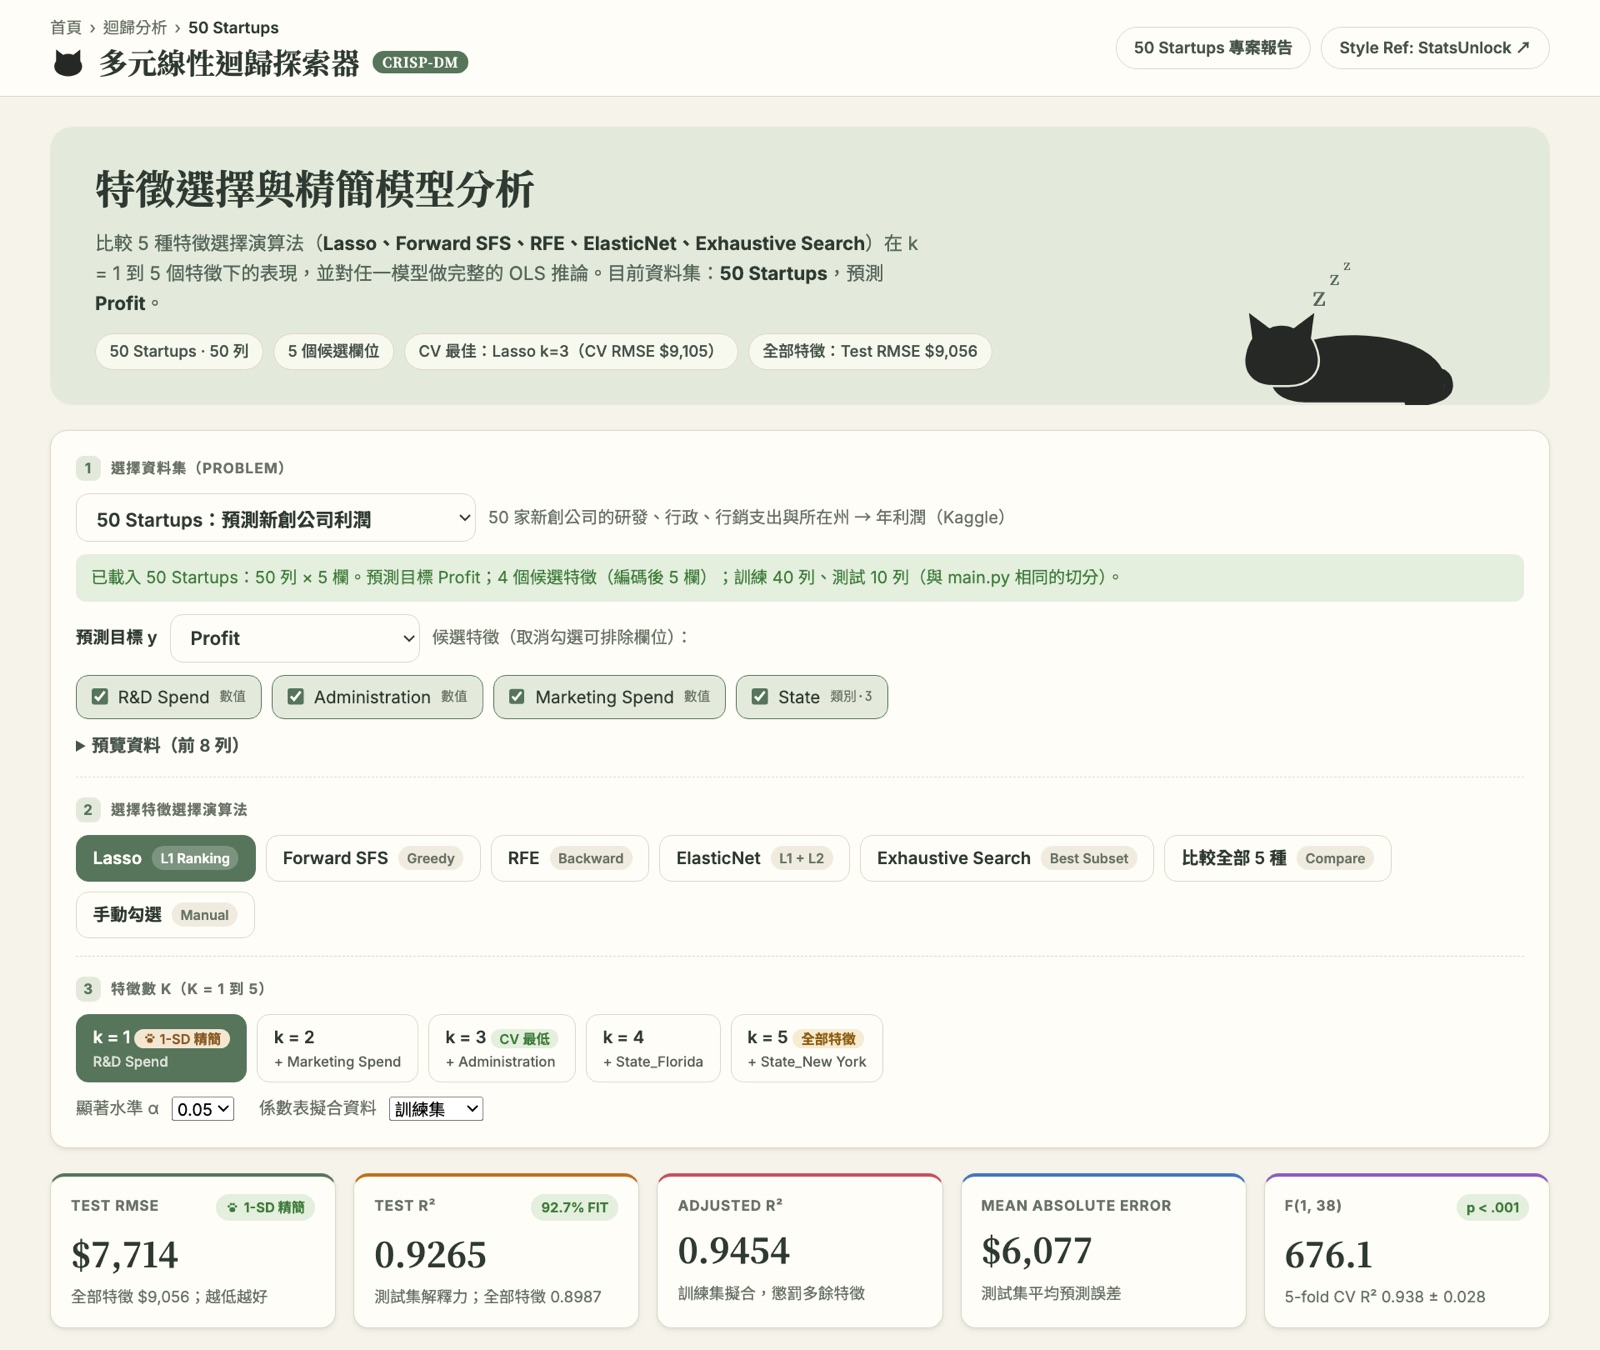
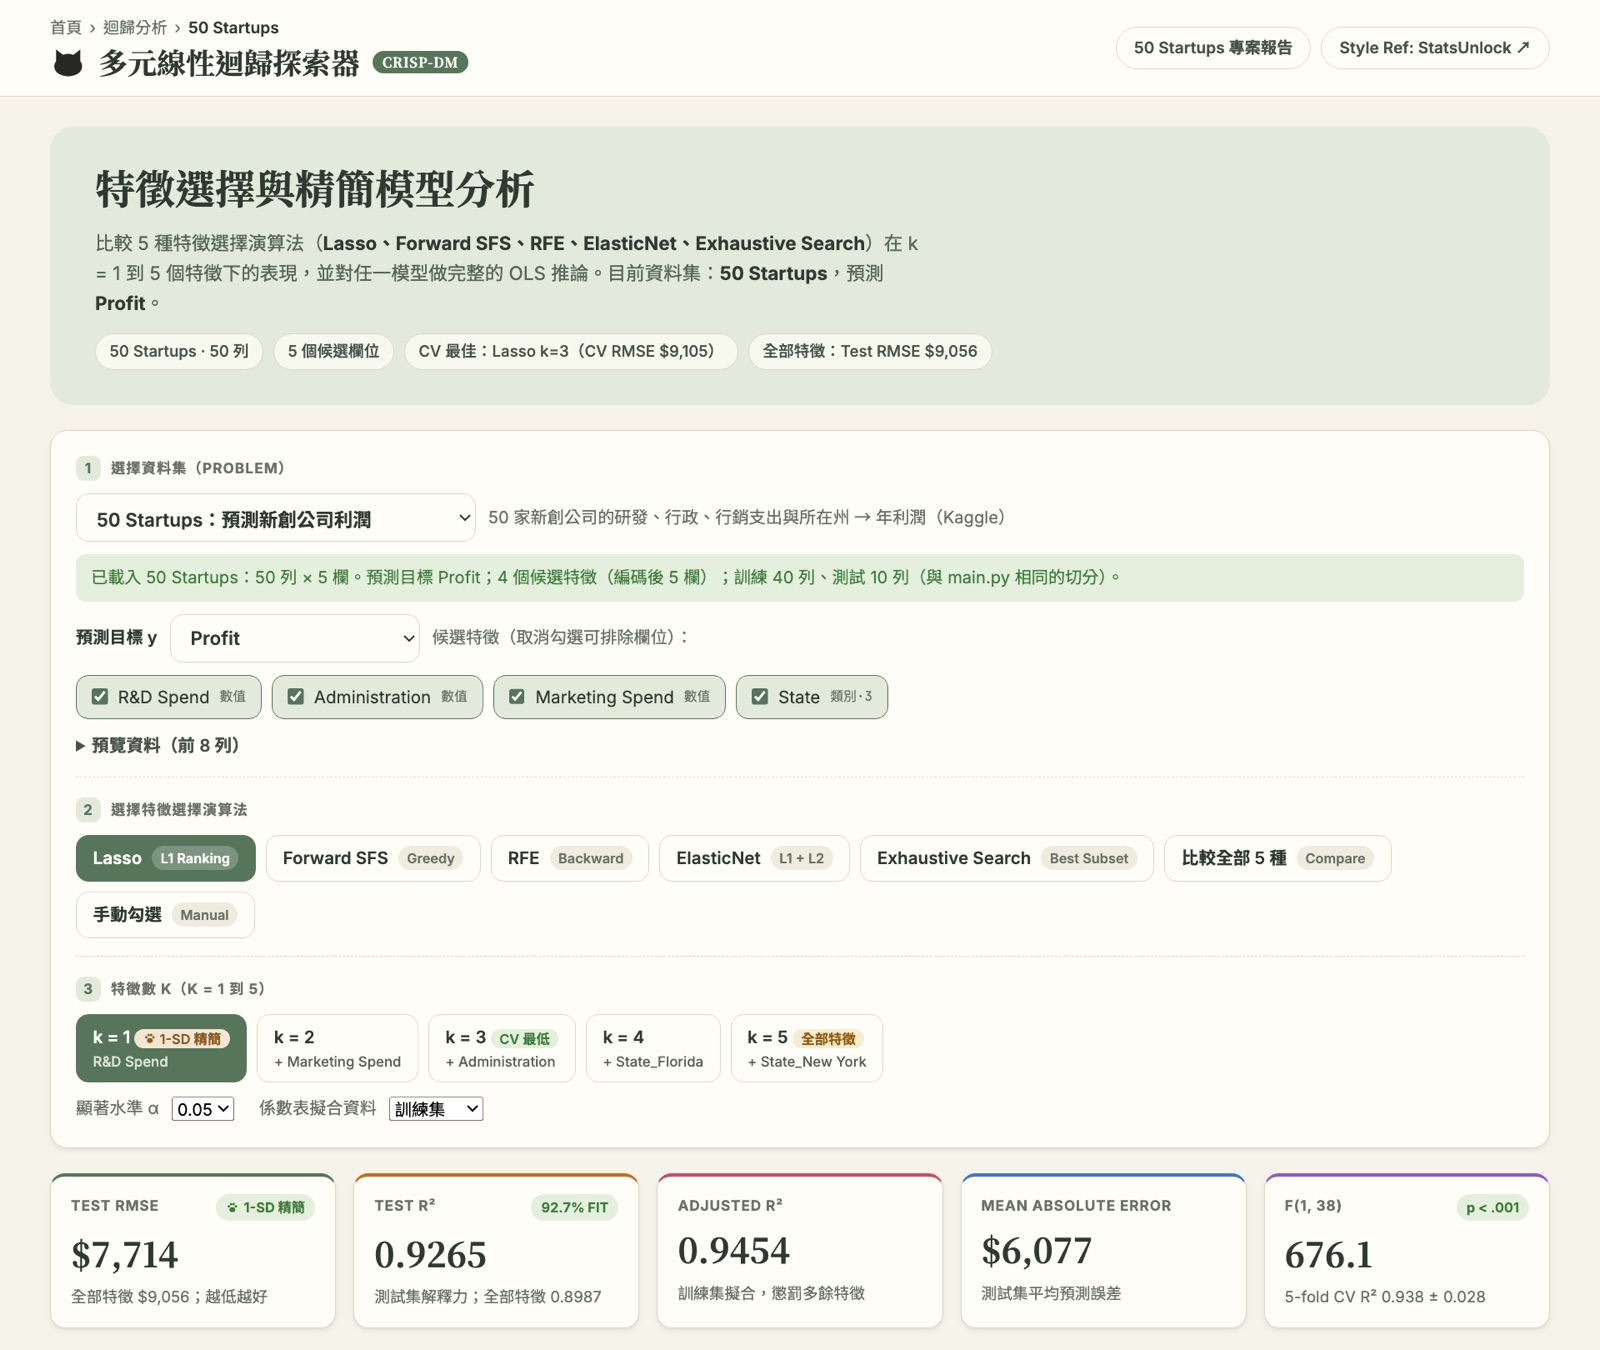
Remove sleeping cat from hero cards; refresh affected screenshots

Changed region(s): [[0.7812, 0.2178, 0.9062, 0.3111]]

diff --git a/index.html b/index.html
@@ -71,9 +71,6 @@ footer .trail svg:nth-child(even) { margin-top: 5px; }
 .ref-btn.primary { background: var(--ink); border-color: var(--ink); color: var(--on-ink); }
 .hero { background: var(--hero-bg); color: var(--fg); border-radius: 18px; padding: 28px clamp(20px, 4vw, 36px); display: grid; gap: 12px; margin-bottom: 20px; position: relative; overflow: hidden; }
 .hero > * { position: relative; z-index: 1; max-width: min(760px, 100%); }
-.hero .sleepy { position: absolute; right: clamp(12px, 3vw, 40px); bottom: 0; width: clamp(150px, 20vw, 220px); z-index: 0; color: var(--cat); max-width: none; }
-.hero .sleepy .zz { fill: var(--hero-sub); }
-@media (max-width: 720px) { .hero .sleepy { position: static; justify-self: end; width: 130px; margin: -6px -8px -28px 0; } }
 body { overflow-x: clip; }
 .hero h2 { font-size: clamp(1.4rem, 3.2vw, 2rem); font-weight: 700; color: var(--fg); }
 .hero p { color: var(--hero-sub); max-width: 70ch; }
@@ -190,7 +187,6 @@ figcaption { font-size: 0.8rem; color: var(--muted); margin-top: 6px; }
     <span class="eyebrow" id="eyebrow">AIoT · Multiple Linear Regression</span>
     <h2 id="heroTitle">50 Startups：CRISP-DM 機器學習專案紀錄</h2>
     <p><b>目標：</b>依 CRISP-DM 六階段，用 scikit-learn 建立多元線性迴歸模型，從研發、行政、行銷支出與所在州別預測新創公司的年度利潤（Profit）。想換資料集、切換演算法或上傳自己的 CSV，請用<a href="app.html" style="color:var(--ink-2);font-weight:700">多元迴歸探索器</a>。</p>
-    <svg class="sleepy" viewBox="0 0 160 92" aria-hidden="true"><path d="M46 90c-14 0-22-7-20-17 3-13 22-22 47-22 30 0 52 10 54 25 1 9-6 14-20 14Z" fill="currentColor"/><path d="M106 90c15 0 25-4 23-12-1-6-8-7-11-3" fill="none" stroke="currentColor" stroke-width="5" stroke-linecap="round"/><path d="M27 80c-11 0-17-7-16-16 1-7 4-11 4-11l-2-15 12 9c4-2 10-2 14 0l12-9-2 15s3 4 4 11c1 9-6 16-17 16Z" fill="currentColor" stroke="var(--hero-bg)" stroke-width="2.5" paint-order="stroke"/><g class="zz" font-family="Noto Serif TC, serif"><text x="50" y="34" font-size="15">z</text><text x="60" y="22" font-size="11">z</text><text x="68" y="13" font-size="8">z</text></g></svg>
   </section>
 
   <div id="missing" class="missing" hidden>找不到 <span class="mono">model_data.js</span>。請先執行 <span class="mono">python main.py</span> 產生資料，再重新整理這個頁面。</div>

diff --git a/app.html b/app.html
@@ -60,9 +60,6 @@ main { display: grid; gap: 20px; padding-block: 24px 64px; }
 /* Hero */
 .hero { background: var(--hero-bg); color: var(--text); border-radius: 18px; padding: 28px clamp(20px, 4vw, 36px); display: grid; gap: 12px; position: relative; overflow: hidden; }
 .hero > * { position: relative; z-index: 1; max-width: min(760px, 100%); }
-.hero .sleepy { position: absolute; right: clamp(12px, 3vw, 40px); bottom: 0; width: clamp(150px, 20vw, 220px); z-index: 0; color: var(--cat); max-width: none; }
-.hero .sleepy .zz { fill: var(--hero-sub); }
-@media (max-width: 720px) { .hero .sleepy { position: static; justify-self: end; width: 130px; margin: -6px -8px -28px 0; } }
 body { overflow-x: clip; }
 .hero h2 { font-size: clamp(1.4rem, 3.2vw, 2rem); font-weight: 800; }
 .hero p { color: var(--hero-sub); max-width: 70ch; }
@@ -227,7 +224,6 @@ footer ul { margin: 0; padding-left: 1.1em; display: grid; gap: 4px; }
     <h2 id="heroTitle">特徵選擇與精簡模型分析</h2>
     <p id="heroText">載入資料中…</p>
     <div class="hero-chips" id="heroChips"></div>
-    <svg class="sleepy" viewBox="0 0 160 92" aria-hidden="true"><path d="M46 90c-14 0-22-7-20-17 3-13 22-22 47-22 30 0 52 10 54 25 1 9-6 14-20 14Z" fill="currentColor"/><path d="M106 90c15 0 25-4 23-12-1-6-8-7-11-3" fill="none" stroke="currentColor" stroke-width="5" stroke-linecap="round"/><path d="M27 80c-11 0-17-7-16-16 1-7 4-11 4-11l-2-15 12 9c4-2 10-2 14 0l12-9-2 15s3 4 4 11c1 9-6 16-17 16Z" fill="currentColor" stroke="var(--hero-bg)" stroke-width="2.5" paint-order="stroke"/><g class="zz" font-family="Noto Serif TC, serif"><text x="50" y="34" font-size="15">z</text><text x="60" y="22" font-size="11">z</text><text x="68" y="13" font-size="8">z</text></g></svg>
   </section>
 
   <section class="card" id="controls" aria-label="分析設定">
